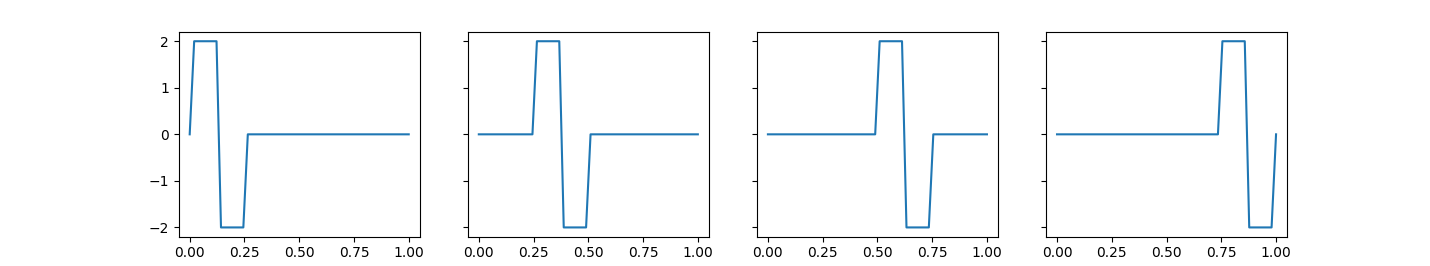
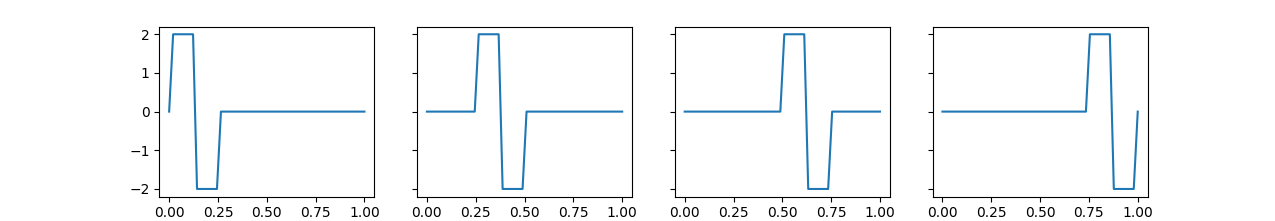
more detail

diff --git a/memos/haar-wavelet/haar-wavelet.py b/memos/haar-wavelet/haar-wavelet.py
@@ -4,8 +4,8 @@ import numpy as np
 
 
 j = 2
-V_j = [i / 2**j for i in range(2**j+1)]
-print(V_j)
+points = [i / 2**j for i in range(2**j+1)]
+print(points)
 
 def Phi(x):
     if 0 <= x <= 1:
@@ -14,7 +14,7 @@ def Phi(x):
         return 0
         
 # continues with all the code block before
-# we have j and V_j already
+# we have j already
 # we discard j in the name for fixed j.
 def Phi_ifn(i):
     def Phi_i(x):
@@ -61,4 +61,4 @@ def Psi_ifn(i):
 F_2w = [Psi_ifn(i) for i in range(2**j)]
 
 # uncomment it to visualiza F_2
-# visual_fn(F_2w, [1, 4])
+visual_fn(F_2w, [1, 4])

diff --git a/memos/python/blog.py b/memos/python/blog.py
@@ -44,8 +44,11 @@ def get_extra_tags(filename):
     "always less than 10 tags"
     extra = ['python', 'c/c++', 'lisp', 'rust']
     extra += ['misc', 'game', 'algo', 'math', 'view']
+    print("Extra Tags: ")
     for i, tag in enumerate(extra):
-        print(f"({i}) {tag}\t")
+        print(f"({i}) {tag}", end='\t')
+        if (i+1) % 3 == 0:
+            print()
     tags = input(f"Enter the numbers of tags for {filename}, "
                  "for example: 1,6: ")
     tags_i = list(map(int, tags.split(',')))

diff --git a/memos/haar-wavelet/haar-wavelet.md b/memos/haar-wavelet/haar-wavelet.md
@@ -3,7 +3,7 @@
 哈尔小波变换自学笔记
 
 ### 1. $L^2(0,1)$空间
-$L^2(0,1)$表定义在闭区间(0,1)的平方可积的函数的线性空间(linear space of square (Lebesgue) integrable real-valued functions on the interval (0, 1))。定义两个运算：
+$L^2(0,1)$表定义在闭区间(0,1)的平方可积的函数的线性空间。定义两个运算：
 
 内积(inner product):
 $$
@@ -17,17 +17,17 @@ $$
 
 求模运算满足三角不等式：
 $$
-    ||f - g|| \le ||f - b|| + ||b - g|| \quad \forall f, g, h \in L^2(0,1) \tag{3}
+    ||f - g|| \le ||f - h|| + ||h - g|| \quad \forall f, g, h \in L^2(0,1) \tag{3}
 $$
 因此可见，$||f-g||$是对$f$和$g$之间距离的一种度量。
 
-内积是对矩阵空间$R^n$的点乘运算的一种泛化。因此，如果$(f,g)=0$，则说$f,g$是正交的。正交集合$F \subset L^2(0,1)$表示，其中每一对函数都是正交的。如果对于$F$中的每一个函数，都满足$||f|| = 1, \forall f \in F$，则说$F$是标准正交集。
+内积是对矩阵空间$R^n$的点乘运算的一种泛化。因此，如果$(f,g)=0$，则说$f,g$是正交的。正交集合$F \subset L^2(0,1)$表示，其中每一对函数都是正交的。如果对于$F$中的每一个函数，都满足$||f|| = 1$，则说$F$是标准正交集。
 
 与矩阵空间的向量分解(vector decomposition)相似，如果对于任意一个函数$f \in L^2(0,1)$，可以表示成:
 $$
-    f = \sum \limits_{i=1}^\infin (f, f_i)f_i = (f, f_1)f_1 + (f, f_2)f_2  + ..., \tag{4}
+    f = \sum \limits_{i=1}^∞ (f, f_i)f_i = (f, f_1)f_1 + (f, f_2)f_2  + ..., \tag{4}
 $$
-我们说标准正交集合$F=\{f_i\}^\infin_{i=1} \subset L^2(0,1)$是一个线性空间$L^2(0,1)$的完全标准正交基(complete orthonormal basis)。
+我们说标准正交集合$F=\{f_i\}^∞_{i=1} \subset L^2(0,1)$是一个线性空间$L^2(0,1)$的完全标准正交基(complete orthonormal basis)。
 在这里，这个无穷和(infinite sum)称为函数$f$基于$F$的广义傅里叶级数。
 
 哈尔的贡献在于，给出了一种构造$F$的方法。
@@ -36,8 +36,8 @@ $$
 选取一个大于0的整数$j$，将闭区间(0,1)平均分成$2_j$份，这些断点构成了一个向量，如下
 ```py
 j = 2
-V_j = [i / 2**j for i in range(2**j+1)]
-print(V_j)
+points = [i / 2**j for i in range(2**j+1)]
+print(points)
 # [0.0, 0.25, 0.5, 0.75, 1.0]
 ```
 令$V_j$为常数分段函数(piecewise-constant function)的集合，其中的函数在断点$i/2^j$处不连续。很显然，$V_j \subset L^2(0,1)$。
@@ -67,7 +67,7 @@ def Phi(x):
     else:
         return 0
 # continues with all the code block before
-# we have j and V_j already
+# we have j already
 # we discard j in the name for fixed j.
 def Phi_ifn(i):
     def Phi_i(x):
@@ -135,16 +135,17 @@ $$
 $$
     ψ_i^j(x) = 2^{j/2} ψ(2^j x − i),  0 ≤ x ≤ 1. \tag{10}
 $$
-令 $F_j^`= \{ψ_i^j\}_{i=0}^{2^j-1}$。这个$F_j^`$也有与$F_j$同样的性质，即其中每个函数都是正交的，模均为1。因此$F_j^`$是一个标准正交基。另外，我们可以观察到，所有在$F_2^`$的元素都在$V_3$里面。
+令 $F_j^w= \{ψ_i^j\}_{i=0}^{2^j-1}$。这个$F_j^w$也有与$F_j$同样的性质，即其中每个函数都是正交的，模均为1。因此$F_j^w$是一个标准正交基。另外，我们可以观察到，所有在$F_2^w$的元素都在$V_3$里面。
 
 ![F_2w](./graphs/wavelet-F_2w.png)
 
 我们可以进一步拓展，对于任意大于等于0的$j$，有以下推论
-- $F_j^`$ 是一个标准正交集合
-- ${F_j^`}$与$V_j$正交
-- $F_j^` \subset V_{j+1}$
 
-记得吗，$W_j$是$V_j$关于$V_{j+1}$的正交补集，所以$F_j^` \subset W_j$。但因为$dim \ F_j^` = dim \ W_j^`$，所以$F_j^`$是$W_j$的一个标准正交基。
++ $F_j^w$ 是一个标准正交集合
++ ${F_j^w}$与$V_j$正交
++ $F_j^w \subset V_{j+1}$
+
+因为$W_j$是$V_j$关于$V_{j+1}$的正交补集，所以$F_j^w \subset W_j$。但因为$dim \ F_j^w = dim \ W_j^w$，所以$F_j^w$是$W_j$的一个标准正交基。
 
 在现代小波理论的术语中，$V_j$的基函数$φ_i^j$叫作哈尔标度函数，$W_j$的基函数$ψ_i^j$称为哈尔小波。
 
@@ -209,17 +210,17 @@ $$
 这对于我们接下来的计算非常有帮助。
 
 ### 6. 从函数到向量
-基于在式(12)中定义符号以及定理(13a)(13b)，可以将任意函数$f \in V_j$改写成：
+基于在式(12)中定义符号以及定理(13)，可以将任意函数$f \in V_j$改写成：
 $$
     f = \sum \limits_{i=0}^{2^j-1} \alpha_i^j φ_i^j \tag{17}
 $$
-> 个人理解，因为$a_i^j=(f, φ_i^j)$，所以$a_i^j$的几何意义为$f$在基$φ_i^j$上的分量，所以上式是用基的线性组来表示$f$。
+> 个人理解，因为$a_i^j=(f, φ_i^j)$，所以$a_i^j$的几何意义为$f$在基$φ_i^j$上的分量，所以上式是用基的线性组合来表示$f$。
 
-这就把任意函数$f \in V_j$跟唯一一个向量$x = [\alpha_0^j,\alpha_1^j,...,\alpha_{n-1}^j] \in R^n$关联起来了，其中$n=2^j=dim \ V_j$。反之，对于$R^n$中的任意向量，在$V_j$中存在个唯一对应的函数。这种关联保持的空间的代数结构(algebraic structure of space)，即：如果$V_j$中的$f$和$g$与$R^n$中的$x$和$y$相关联，那么对于任意$a,b \in R$，函数 $af+bg$ 对应于$ax+by$ 。此外，如果我们定义$x \in R^n$的模为$||x|| = (\sum^{n-1}_{i=0}|\alpha_i^j|^2)^{1/2}$，那么则有$(f,g) = x · y$ 且 $||f||=||x||$。也就是说，这种关系是同质的(isomorphism)。
+这就把任意函数$f \in V_j$跟唯一一个向量$x = [\alpha_0^j,\alpha_1^j,...,\alpha_{n-1}^j] \in R^n$关联起来了，其中$n=2^j=dim \ V_j$。反之，对于$R^n$中的任意向量，在$V_j$中存在个唯一对应的函数。这种关联保持了空间中的代数结构，即：如果$V_j$中的$f$和$g$与$R^n$中的$x$和$y$相关联，那么对于任意$a,b \in R$，函数 $af+bg$ 对应于$ax+by$ 。此外，如果我们定义$x \in R^n$的模为$||x|| = (\sum^{n-1}_{i=0}|\alpha_i^j|^2)^{1/2}$，那么则有$(f,g) = x · y$ 且 $||f||=||x||$。也就是说，这种关系是同质的(isomorphism)。
 
 从这里开始，我们就已经偏离了哈尔的原工作目标了。通过函数空间与向量空间的同质性，我们从函数空间转移到了向量空间。
 
-我们将研究上节定义的两个定理：(13)和(16)。令$j=3$，因为$V_3 = V_2 ⊕ W_2$，则对于$f \in V_3$，有两种表示法:(1)函数基$F_3$的线性组合;(2)函数基$F_2,F_2^`$线性组合之和。
+我们将研究上节定义的两个定理：(13)和(16)。令$j=3$，因为$V_3 = V_2 ⊕ W_2$，则对于$f \in V_3$，有两种表示法:(1)函数基$F_3$的线性组合;(2)函数基$F_2,F_2^w$线性组合之和。
 $$
     f = α_0^3 φ^3_0 + α_1^3 φ^3_1 + α_2^3 φ^3_2 + α^3_3 φ^3_3 + α_4^3 φ^3_4 + α_5^3 φ^3_5 + α_6^3 φ^3_6 + α_7^3 φ^3_7 \\
     f = (α_0^2 φ_0^2 + α_1^2 φ_1^2 + α_2^2 φ_2^2 + α_3^2 φ_3^2) + 
@@ -263,7 +264,7 @@ $$
 $$
 上式称为空间$V_j$的小波解析(wavelet decomposition of the space $V_j$)。其中各部分的基的并集
 $$
-    U_j = F_0 ∪ F_0^` ∪ F_1^` ∪ ...  ∪ F_{j-1}^`
+    U_j = F_0 ∪ F_0^w ∪ F_1^w ∪ ...  ∪ F_{j-1}^w
 $$
 是$V_j$的标准正交基，称为空间$V_j$的哈尔小波基(haar wavelet basis)，其线性组合的系数称为函数的哈尔小波系数(haar wavelet coefficients)。
 举例来说，如果函数 $f \in V_3 = V_0 ⊕ W_0 ⊕ W_1 ⊕ W_2$，则有
